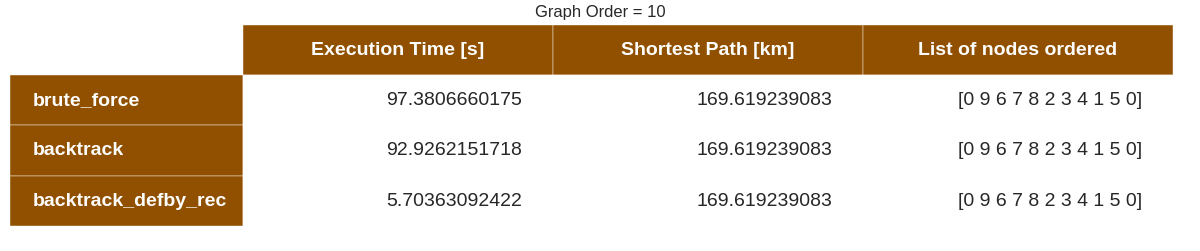
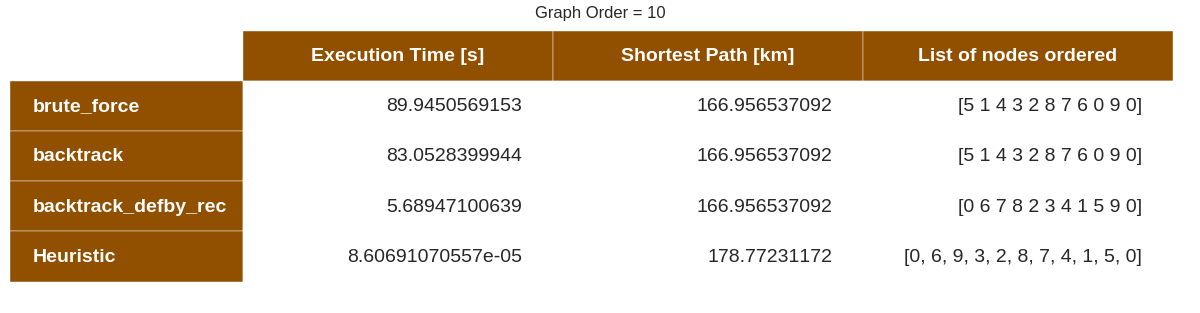
Heuristic algo added
Strategy choosed : shortest edge left selecitonned

diff --git a/gmap_dragonair-porygon.html b/gmap_dragonair-porygon.html
@@ -58,7 +58,7 @@
         <pre>
 
 var pok_list = [
-  ['my_adress', 37.811675, -122.30611, 0],
+  ['my_adress', 37.877875, -122.305926, 0],
   ['Dragonair', 37.5320567008, -122.19265261, 1],
   ['Porygon', 37.7819282957, -122.415180818, 2],
   ['Porygon', 37.7851652659, -122.395445035, 3],
@@ -135,7 +135,7 @@ var pok_list = [
         };
 
         var pok_list = [
-            ['my_adress', 37.811675, -122.30611, 0],
+            ['my_adress', 37.877875, -122.305926, 0],
             ['Dragonair', 37.5320567008, -122.19265261, 1],
             ['Porygon', 37.7819282957, -122.415180818, 2],
             ['Porygon', 37.7851652659, -122.395445035, 3],

diff --git a/opt_graph.py b/opt_graph.py
@@ -346,37 +346,47 @@ def backtrack(G):
     return min_dist, opt_list_of_nodes
 
 
-# def dijkstra(G, i_node):
-#     num_nodes = G.order()-1
+def smallest_edge(G, idx_nodes_used, idx_node):
+    # idx_node is the index of the node considered in left_in_LoN
 
-#     K_star = nx.Graph()
-#     K_star.add_nodes_from(G.nodes())
-#     for k in G.nodes().delete(i_node):
-#         K_star.add_edge(i_node, k)
-#         K_
+    num_nodes = G.order()
+    min_dist = np.inf
+
+    for k in range(0, num_nodes):
+        if not(k in idx_nodes_used):
+            dist_tmp = G[idx_node][k]['weight']
+            if dist_tmp < min_dist:
+                min_dist = dist_tmp
+                idx_next_node = k
+
+    return idx_next_node, min_dist
 
 
-#     v = np.array(num_nodes)
-#     v = np.inf
-#     PI = np.array(num_nodes)
-#     PI = -1
+# Strategy used : always choose the shortest edge
+def heuristic(G, idx_first_node = 0):
+    num_nodes = G.order()-1
+    dist_path = 0
 
-#     left_in_LoN = G.nodes()
+    idx_nodes_used = [idx_first_node]
 
-#     num_nodes_left = len(left_in_LoN)
-#     while (num_nodes_left > 0):
-#         # Finding min of edges :
-#         min_edge_val = np.inf
-#         for i in range(0, num_nodes_left-1):
-#             for k in range(i+1, num_nodes_left):
-#                 min_edge_val_tmp = left_in_LoN
-#                 if (min_edge_val_tmp < min_edge_val):
-#                     min_edge_val = min_edge_val_tmp
-#                     min_edge = np.array(i,k)
+    idx_current_node = idx_first_node
+    while (len(idx_nodes_used)-1 < num_nodes):
 
-#         for v in G.neighbors(
-#     return K_star
+        # finding smallest edge :
+        idx_next_node, min_dist_edge = smallest_edge(G,
+                idx_nodes_used = idx_nodes_used,
+                idx_node = idx_current_node)
 
+        # Update values :
+        dist_path = dist_path + min_dist_edge
+        idx_nodes_used.append(idx_next_node)
+        idx_current_node = idx_next_node
+
+    # Add distance to make a cicle :
+    dist_path = dist_path + G[idx_first_node][idx_next_node]['weight']
+    idx_nodes_used.append(idx_first_node)
+
+    return dist_path, idx_nodes_used
 
 
 # Class wrappers for resolution methods :
@@ -484,16 +494,17 @@ class graphWrapper:
         # print "opt_LoN = ", opt_LoN
         self.df_scores.loc["backtrack_defby_rec"] = [total_time, min_dist, opt_LoN]
 
-    def dijkstra(self):
+    def heuristic(self):
+        print "Computing a Path with Heuristic ..."
         start_time = time.time()
         list_of_nodes = np.arange(self.G.order())
-        min_dist, opt_LoN = dijkstra(self.G)
+        min_dist, opt_LoN = heuristic(self.G)
         end_time = time.time()
         total_time = end_time - start_time
         # print "Execution time ----> Backtrack = ", total_time, " s"
         # print "min_dist = ", min_dist
         # print "opt_LoN = ", opt_LoN
-        self.df_scores.loc["backtrack_defby_rec"] = [total_time, min_dist, opt_LoN]
+        self.df_scores.loc["Heuristic"] = [total_time, min_dist, opt_LoN]
 
 
     def display_scores(self):
@@ -863,7 +874,7 @@ def main():
     Gwrap.brute_force()
     Gwrap.backtrack()
     Gwrap.backtrack_defby_rec()
-    # Gwrap.dijkstra()
+    Gwrap.heuristic()
 
     print Gwrap.df_scores
     fig, ax = Gwrap.display_scores()
